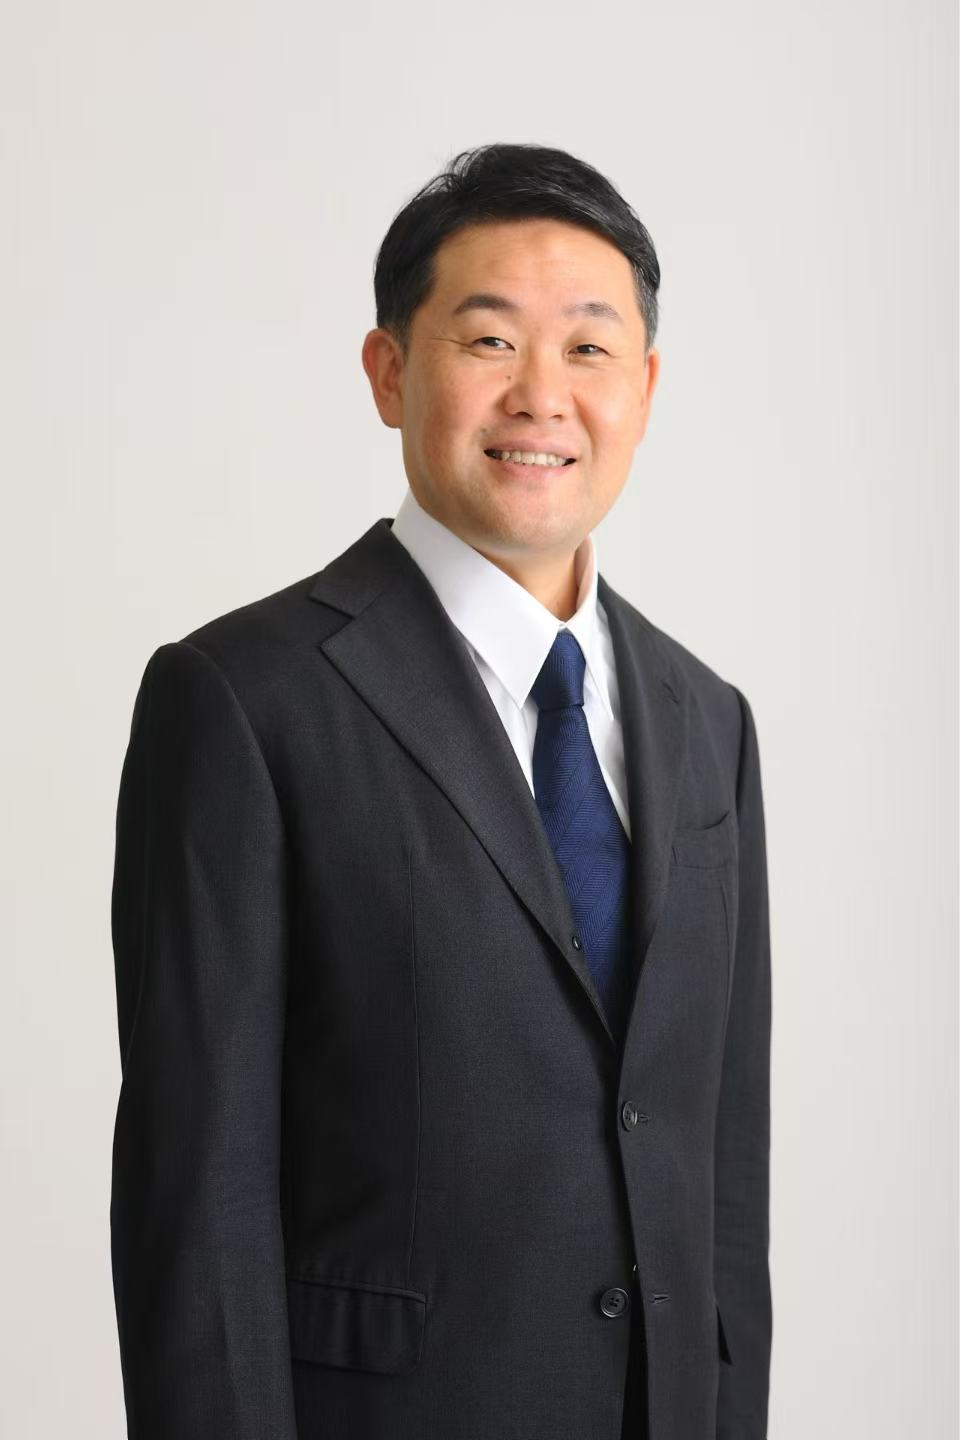
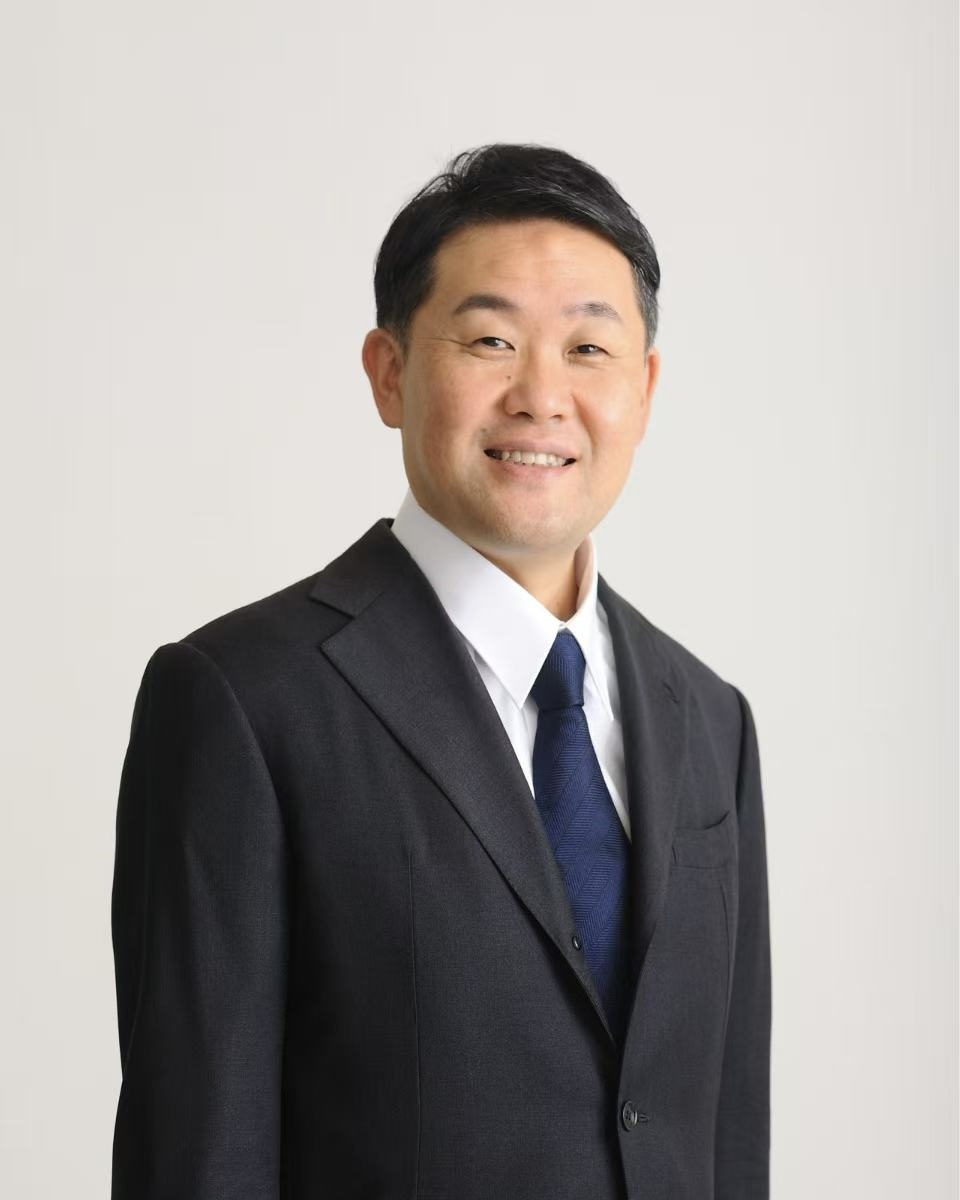
修改

diff --git a/src/views/about/message/index.vue b/src/views/about/message/index.vue
@@ -43,9 +43,7 @@
     .img-bg{
       float: left;
       width: 200px;
-      height: 250px;
       margin-right: 10px;
-      // height: 100px;
     }
     p{
       line-height: 1.875rem;
